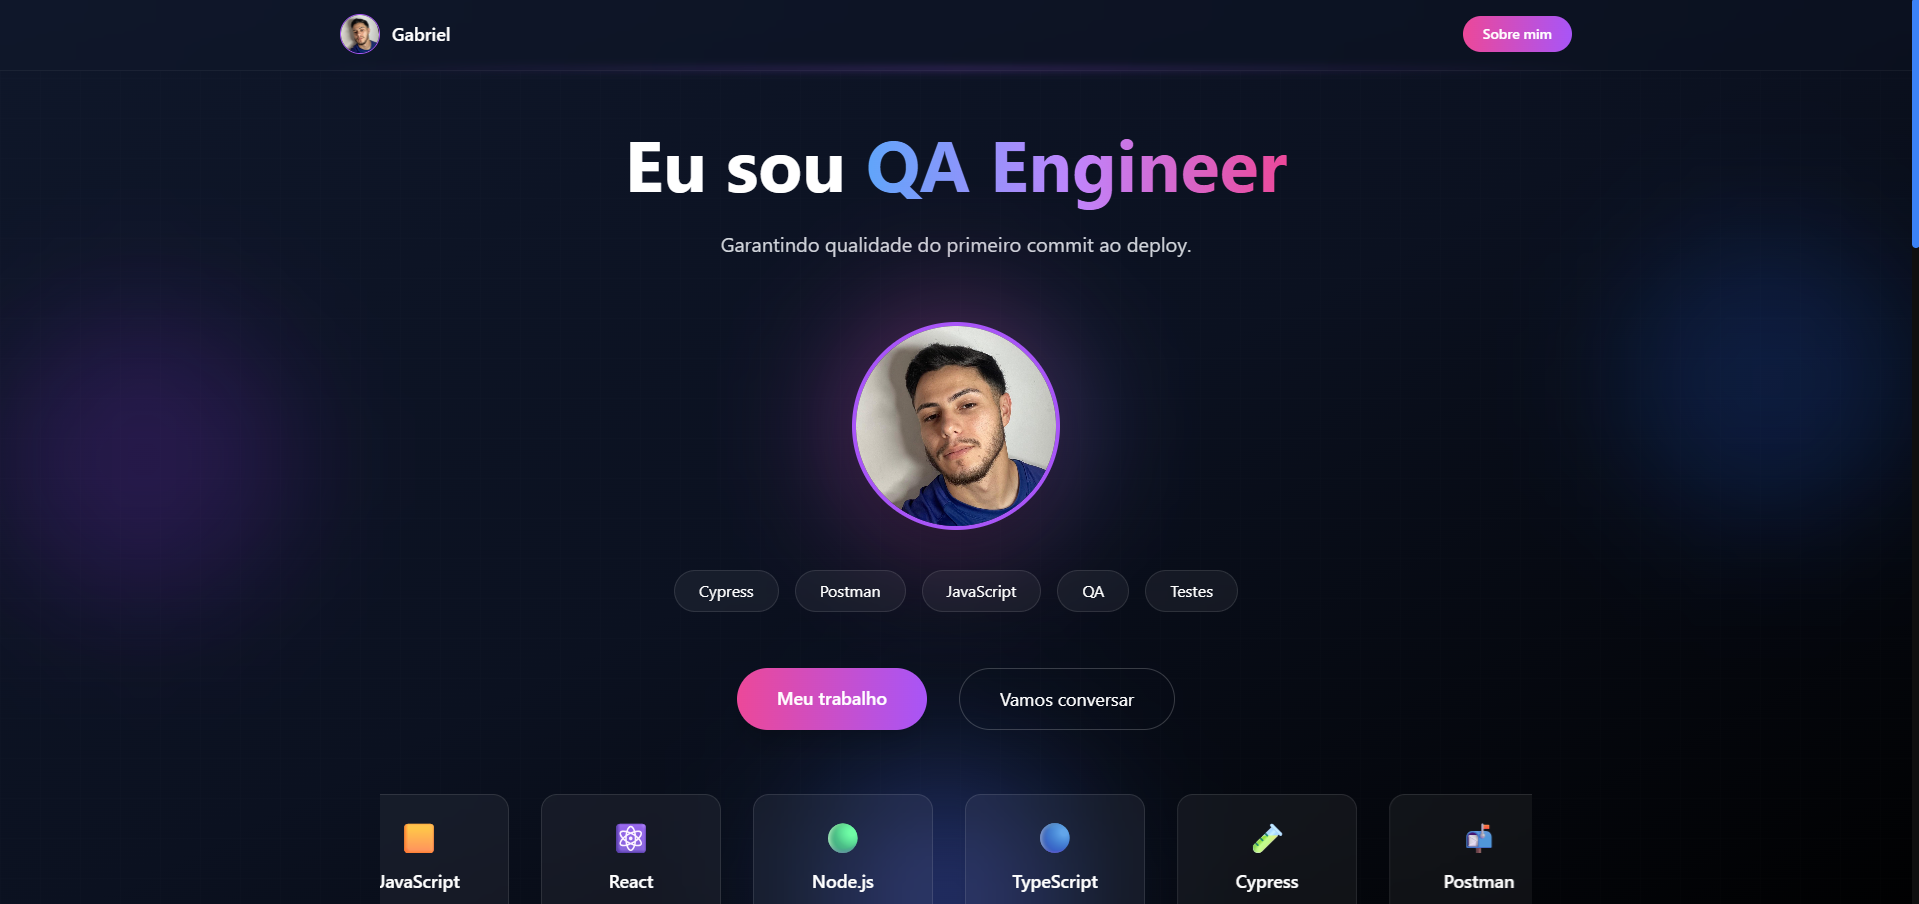
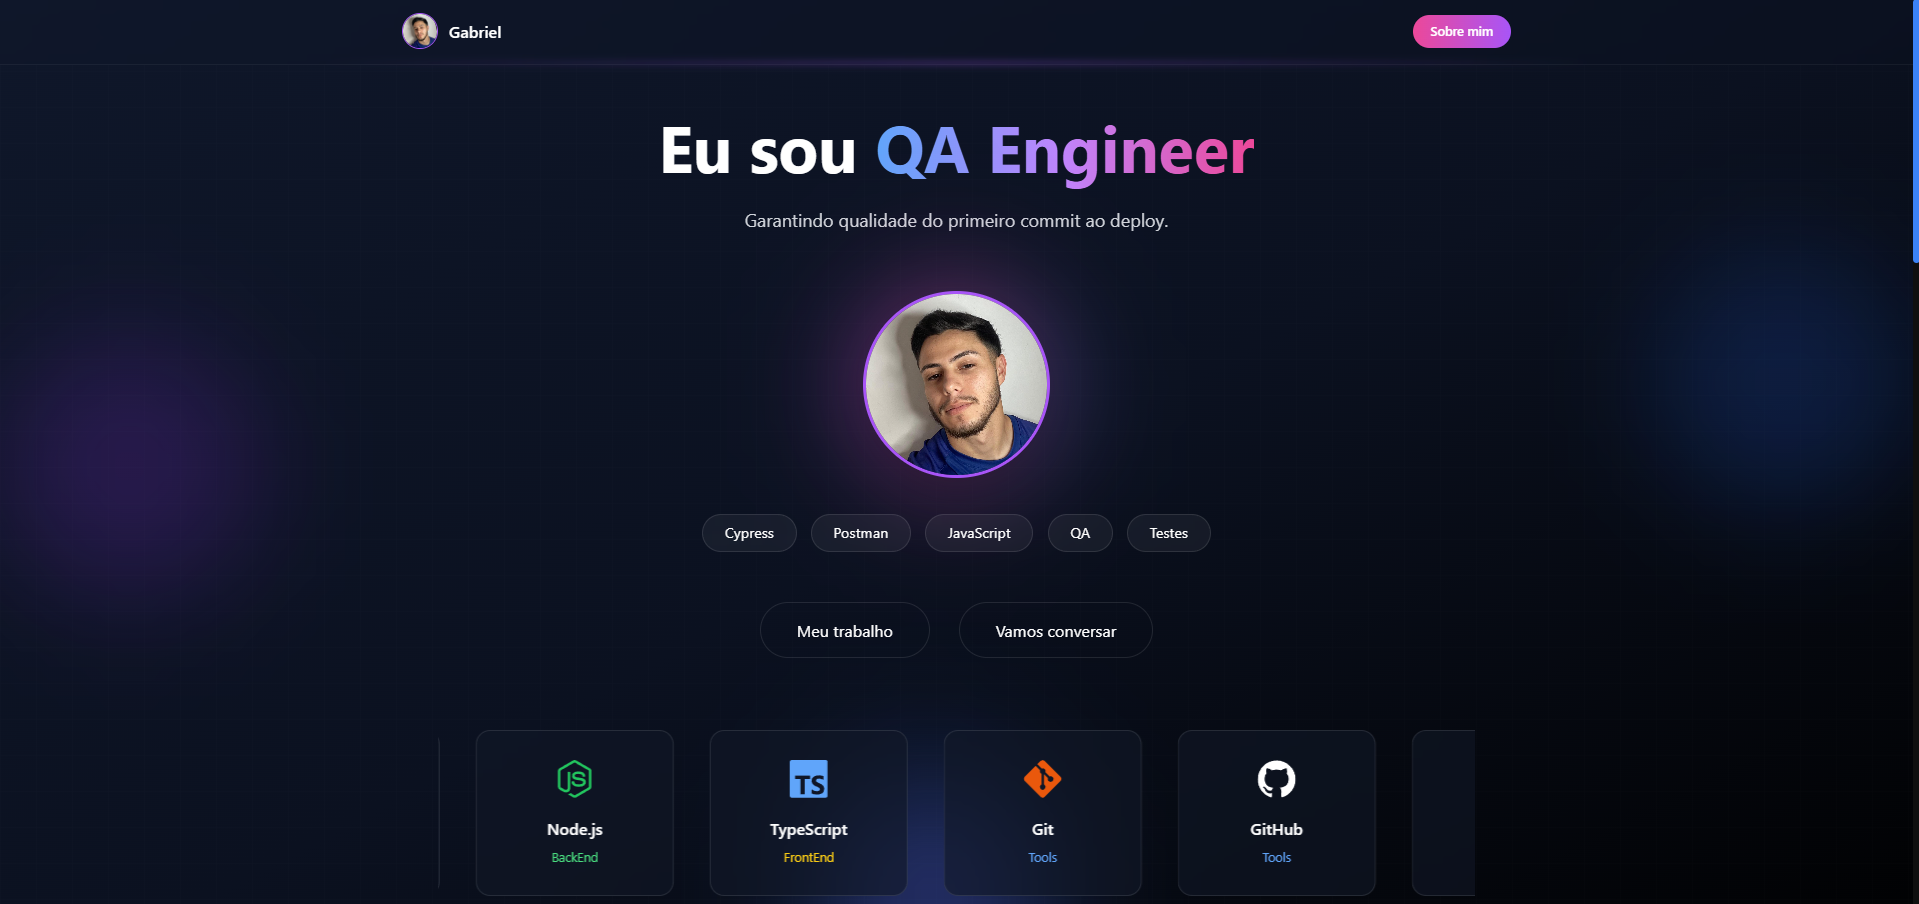
Novas alterações para colocar no ar

diff --git a/src/components/TechCarousel.jsx b/src/components/TechCarousel.jsx
@@ -1,31 +1,75 @@
 import { techs } from "../data/techs";
 
+import {
+  SiCypress,
+  SiPostman,
+  SiJavascript,
+  SiReact,
+  SiNodedotjs,
+  SiTypescript,
+  SiGit,
+  SiGithub,
+  SiVite,
+  SiTailwindcss,
+  SiPostgresql,
+  SiJira,
+  SiPython,
+} from "react-icons/si";
+
+import { VscVscode } from "react-icons/vsc";
+
+const iconMap = {
+  Cypress: <SiCypress size={42} className="text-green-400" />,
+  Postman: <SiPostman size={42} className="text-orange-500" />,
+  "VS Code": <VscVscode size={42} className="text-blue-500" />,
+  JavaScript: <SiJavascript size={42} className="text-yellow-400" />,
+  React: <SiReact size={42} className="text-cyan-400" />,
+  "Node.js": <SiNodedotjs size={42} className="text-green-500" />,
+  TypeScript: <SiTypescript size={42} className="text-blue-400" />,
+  Git: <SiGit size={42} className="text-orange-600" />,
+  GitHub: <SiGithub size={42} className="text-white" />,
+  Vite: <SiVite size={42} className="text-purple-400" />,
+  "Tailwind CSS": <SiTailwindcss size={42} className="text-cyan-400" />,
+  PostgreSQL: <SiPostgresql size={42} className="text-blue-500" />,
+  Jira: <SiJira size={42} className="text-blue-400" />,
+  Python: <SiPython size={42} className="text-yellow-300" />,
+};
+
 function TechCarousel() {
   return (
-    <div className="relative overflow-hidden mt-16">
+    <div className="relative overflow-hidden mt-20">
 
-      <div className="flex gap-8 animate-scroll whitespace-nowrap">
+      <div className="flex gap-10 animate-scroll w-max">
         {[...techs, ...techs].map((tech, index) => (
           <div
             key={index}
-            className="min-w-[180px] bg-white/5 border border-white/10 
-                       rounded-2xl p-6 backdrop-blur-lg 
+            className="min-w-[220px] bg-gray-900/60 
+                       border border-white/10
+                       rounded-2xl p-8 
+                       backdrop-blur-lg
+                       hover:border-blue-500
+                       hover:shadow-lg hover:shadow-blue-500/20
+                       transition-all duration-300
                        text-center"
           >
-            <div className="text-3xl mb-3">{tech.icon}</div>
+            <div className="flex justify-center mb-5">
+              {iconMap[tech.name]}
+            </div>
 
-            <h3 className="font-semibold text-lg">{tech.name}</h3>
+            <h3 className="text-lg font-semibold mb-2">
+              {tech.name}
+            </h3>
 
             <p
-              className={`text-sm mt-2 ${
-                tech.tool === "Back-End"
-                  ? "text-green-400"
-                  : tech.tool === "Front-End"
+              className={`text-sm ${
+                tech.category === "FrontEnd"
                   ? "text-yellow-400"
+                  : tech.category === "BackEnd"
+                  ? "text-green-400"
                   : "text-blue-400"
               }`}
             >
-              {tech.tool}
+              {tech.category}
             </p>
           </div>
         ))}

diff --git a/src/data/techs.js b/src/data/techs.js
@@ -1,17 +1,16 @@
 export const techs = [
-  { name: "Cypress", tool: "BackEnd", img: "" },
-  { name: "Postman", tool: "BackEnd", icon: "📬" },
-  { name: "VS Code", tool: "Tools", icon: "📬" },
-  { name: "JavaScript", tool: "FrontEnd", icon: "🟨" },
-  { name: "React", tool: "FrontEnd", icon: "⚛" },
-  { name: "Node.js", tool: "BackEnd", icon: "🟢" },
-  { name: "TypeScript", tool: "FrontEnd", icon: "🔵" },
-  { name: "Git", tool: "Tools", icon: "🔵" },
-  { name: "GitHub", tool: "Tools", icon: "🔵" },
-  { name: "Vite", tool: "FrontEnd", icon: "🔵" },
-  { name: "Tailwind CSS", tool: "FrontEnd", icon: "🔵" },
-  { name: "PostgreSQL", tool: "BackEnd", icon: "🔵" },
-  { name: "Jira", tool: "Tools", icon: "🔵" },
-  { name: "Scrum", tool: "Tools", icon: "🔵" },
-  { name: "Python", tool: "BackEnd", icon: "🔵" },
+  { name: "Cypress", category: "BackEnd" },
+  { name: "Postman", category: "BackEnd" },
+  { name: "VS Code", category: "Tools" },
+  { name: "JavaScript", category: "FrontEnd" },
+  { name: "React", category: "FrontEnd" },
+  { name: "Node.js", category: "BackEnd" },
+  { name: "TypeScript", category: "FrontEnd" },
+  { name: "Git", category: "Tools" },
+  { name: "GitHub", category: "Tools" },
+  { name: "Vite", category: "FrontEnd" },
+  { name: "Tailwind CSS", category: "FrontEnd" },
+  { name: "PostgreSQL", category: "BackEnd" },
+  { name: "Jira", category: "Tools" },
+  { name: "Python", category: "BackEnd" },
 ];

diff --git a/src/components/Hero.jsx b/src/components/Hero.jsx
@@ -3,7 +3,7 @@ import TechCarousel from "./TechCarousel";
 
 function Hero() {
   return (
-    <section className="relative min-h-screen flex items-center justify-center text-center overflow-hidden text-white px-6 pt-32">
+    <section className="relative min-h-screen flex items-center justify-center text-center overflow-hidden text-white px-6 pt-32 pb-32">
 
       {/* Fundo gradiente separado */}
       <div className="absolute inset-0 z-0 bg-gradient-to-br from-[#0f172a] via-[#0b1120] to-black" />

diff --git a/src/index.css b/src/index.css
@@ -51,5 +51,5 @@ body {
 }
 
 .animate-scroll {
-  animation: scroll 25s linear infinite;
+  animation: scroll 35s linear infinite;
 }

diff --git a/README.md b/README.md
@@ -72,7 +72,7 @@ src/
 
 ```bash
 # Clonar o repositório
-git clone https://github.com/seuusuario/portfolio
+git clone https://github.com/...
 
 # Entrar na pasta
 cd portfolio
